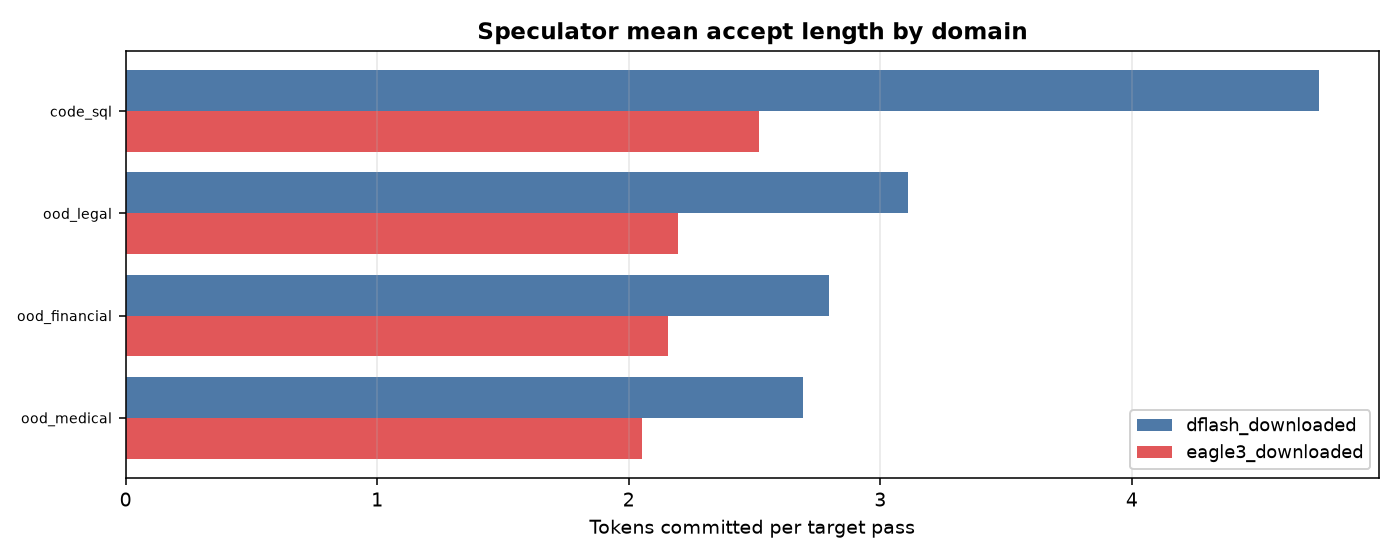
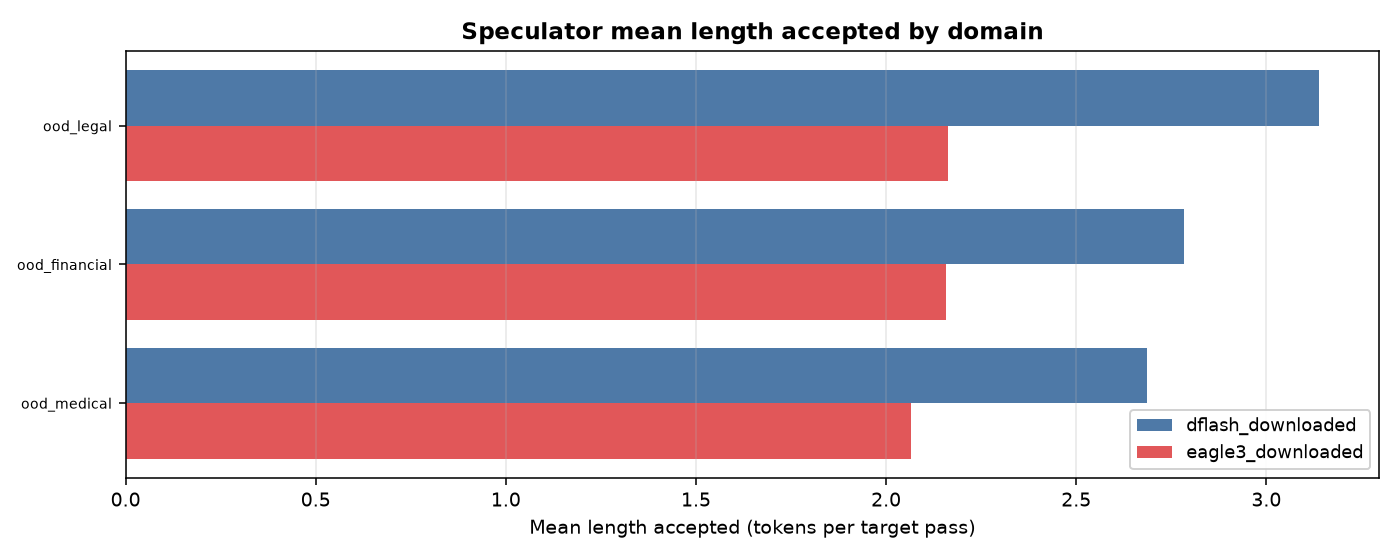
Final results: DFlash vs EAGLE3 across all 3 sources, both metrics
Complete per-domain benchmark (test split) for both speculators on the shared
Qwen3-8B target, across synthetic / wild / downloaded. results/charts/ consolidated
to the 8 final charts only: compare_<source>_{acceptance,mean_len} + overview_*.

Means (acceptance rate / mean length accepted):
  synthetic   dflash 14.8% / 3.21   eagle3 35.6% / 2.07
  wild        dflash 14.1% / 3.11   eagle3 31.5% / 1.94
  downloaded  dflash 12.5% / 2.87   eagle3 37.6% / 2.13

EAGLE3 accepts a much higher fraction of its proposals; DFlash accepts more tokens
per target pass (15-token block vs 3). Consistent across sources — and DFlash's
acceptance barely moves synthetic->real (14.8/14.1/12.5), so the synthetic prompts
aren't inflating the numbers.

Claude-Session: https://claude.ai/code/session_01Vzi1XSvwaovSQWXF5jn84U

diff --git a/Benchmarking domains/results/eagle3_synthetic_report.md b/Benchmarking domains/results/eagle3_synthetic_report.md
@@ -1,0 +1,62 @@
+# Speculator domain benchmark — eagle3
+
+Speculator `RedHatAI/Qwen3-8B-speculator.eagle3` + target `Qwen/Qwen3-8B` · 51 domains · 3 speculative tokens/step.
+
+- **Acceptance rate (pooled):** 29.9%
+- **Mean accept length:** 2.07 tokens/pass
+
+## Domains ranked by acceptance rate
+
+| Domain | Accept % | Mean len | Gen tok | n |
+|---|---|---|---|---|
+| task_json_extraction | 63.3 | 2.90 | 7674 | 100 |
+| task_data_generation | 61.1 | 2.83 | 49990 | 100 |
+| ood_ascii_art | 59.2 | 2.78 | 38102 | 100 |
+| task_tabular_data | 56.2 | 2.69 | 34051 | 100 |
+| lang_swahili | 56.1 | 2.68 | 50140 | 100 |
+| task_math_reasoning | 50.6 | 2.52 | 35117 | 100 |
+| code_python | 47.6 | 2.43 | 45684 | 100 |
+| code_javascript | 47.4 | 2.42 | 46241 | 100 |
+| code_typescript | 47.2 | 2.42 | 47737 | 100 |
+| task_email_writing | 47.0 | 2.41 | 24424 | 100 |
+| code_ruby | 46.6 | 2.40 | 43905 | 100 |
+| code_c | 46.2 | 2.39 | 49923 | 100 |
+| code_cpp | 45.8 | 2.37 | 47683 | 100 |
+| code_r | 45.6 | 2.37 | 46871 | 100 |
+| code_java | 45.4 | 2.36 | 47158 | 100 |
+| code_swift | 45.4 | 2.36 | 46182 | 100 |
+| ood_regex | 44.8 | 2.34 | 46498 | 100 |
+| code_kotlin | 44.7 | 2.34 | 47999 | 100 |
+| code_bash | 44.3 | 2.33 | 46268 | 100 |
+| ood_shell | 44.2 | 2.32 | 39367 | 100 |
+| code_rust | 44.1 | 2.32 | 47832 | 100 |
+| code_go | 43.9 | 2.32 | 48265 | 100 |
+| ood_customer_support | 43.4 | 2.30 | 40438 | 100 |
+| code_sql | 43.4 | 2.30 | 46707 | 100 |
+| ood_financial | 42.4 | 2.27 | 48866 | 100 |
+| task_logic_reasoning | 42.2 | 2.27 | 46960 | 100 |
+| ood_chemistry | 41.6 | 2.25 | 45132 | 100 |
+| lang_english | 41.6 | 2.25 | 46691 | 100 |
+| code_haskell | 41.2 | 2.24 | 47180 | 100 |
+| task_summarization | 39.3 | 2.18 | 15823 | 100 |
+| task_question_answering | 39.0 | 2.17 | 42453 | 100 |
+| ood_legal | 39.0 | 2.17 | 48326 | 100 |
+| task_roleplay_chat | 36.9 | 2.11 | 39806 | 100 |
+| ood_medical | 35.9 | 2.08 | 49595 | 100 |
+| task_creative_writing | 34.4 | 2.03 | 29517 | 100 |
+| ood_poetry | 34.2 | 2.03 | 21737 | 100 |
+| task_translation | 22.3 | 1.67 | 11672 | 100 |
+| lang_french | 19.5 | 1.59 | 47216 | 100 |
+| lang_spanish | 19.4 | 1.58 | 46032 | 100 |
+| lang_italian | 15.9 | 1.48 | 49128 | 100 |
+| lang_portuguese | 15.8 | 1.47 | 47432 | 100 |
+| lang_german | 14.0 | 1.42 | 48009 | 100 |
+| lang_turkish | 12.6 | 1.38 | 48611 | 100 |
+| lang_polish | 10.9 | 1.33 | 49267 | 100 |
+| lang_hindi | 10.9 | 1.33 | 51104 | 100 |
+| lang_korean | 9.2 | 1.28 | 48919 | 100 |
+| lang_vietnamese | 9.2 | 1.27 | 48791 | 100 |
+| lang_chinese | 8.3 | 1.25 | 46104 | 100 |
+| lang_russian | 6.3 | 1.19 | 47697 | 100 |
+| lang_japanese | 6.0 | 1.18 | 49461 | 100 |
+| lang_arabic | 5.2 | 1.16 | 48903 | 100 |

diff --git a/Benchmarking domains/results/dflash_synthetic_report.md b/Benchmarking domains/results/dflash_synthetic_report.md
@@ -1,0 +1,62 @@
+# Speculator domain benchmark — dflash
+
+Speculator `z-lab/Qwen3-8B-DFlash-b16` + target `Qwen/Qwen3-8B` · 51 domains · 15 speculative tokens/step.
+
+- **Acceptance rate (pooled):** 11.7%
+- **Mean accept length:** 3.21 tokens/pass
+
+## Domains ranked by acceptance rate
+
+| Domain | Accept % | Mean len | Gen tok | n |
+|---|---|---|---|---|
+| task_math_reasoning | 38.5 | 6.77 | 35390 | 100 |
+| task_tabular_data | 36.2 | 6.43 | 34124 | 100 |
+| task_json_extraction | 34.1 | 6.12 | 7695 | 100 |
+| task_data_generation | 28.0 | 5.19 | 49974 | 100 |
+| ood_chemistry | 25.9 | 4.88 | 45326 | 100 |
+| ood_ascii_art | 24.1 | 4.62 | 38287 | 100 |
+| code_python | 21.0 | 4.15 | 45646 | 100 |
+| code_javascript | 20.5 | 4.08 | 46394 | 100 |
+| task_logic_reasoning | 20.0 | 4.00 | 47069 | 100 |
+| code_java | 19.5 | 3.93 | 47027 | 100 |
+| ood_regex | 19.4 | 3.91 | 46626 | 100 |
+| code_cpp | 19.2 | 3.88 | 47620 | 100 |
+| code_ruby | 19.1 | 3.86 | 43801 | 100 |
+| lang_swahili | 19.0 | 3.85 | 50151 | 100 |
+| code_c | 18.9 | 3.83 | 49875 | 100 |
+| code_sql | 18.7 | 3.80 | 46630 | 100 |
+| code_r | 18.4 | 3.76 | 47163 | 100 |
+| code_go | 18.2 | 3.74 | 47964 | 100 |
+| code_typescript | 18.1 | 3.71 | 47800 | 100 |
+| code_rust | 18.0 | 3.69 | 47564 | 100 |
+| code_swift | 17.5 | 3.63 | 45651 | 100 |
+| code_bash | 17.5 | 3.62 | 46525 | 100 |
+| code_kotlin | 17.4 | 3.61 | 47701 | 100 |
+| ood_shell | 15.6 | 3.35 | 39160 | 100 |
+| ood_financial | 15.1 | 3.27 | 48877 | 100 |
+| code_haskell | 15.0 | 3.25 | 47433 | 100 |
+| ood_medical | 13.6 | 3.04 | 49600 | 100 |
+| task_email_writing | 12.0 | 2.80 | 24299 | 100 |
+| ood_legal | 11.9 | 2.78 | 48278 | 100 |
+| ood_customer_support | 11.6 | 2.73 | 39853 | 100 |
+| lang_english | 11.4 | 2.71 | 46737 | 100 |
+| task_question_answering | 11.2 | 2.68 | 42430 | 100 |
+| lang_french | 10.1 | 2.51 | 47244 | 100 |
+| task_summarization | 9.9 | 2.48 | 15906 | 100 |
+| task_translation | 9.5 | 2.43 | 11490 | 100 |
+| lang_spanish | 9.1 | 2.37 | 45952 | 100 |
+| task_roleplay_chat | 8.7 | 2.30 | 39109 | 100 |
+| lang_italian | 8.4 | 2.26 | 49174 | 100 |
+| ood_poetry | 7.5 | 2.12 | 22027 | 100 |
+| task_creative_writing | 7.4 | 2.10 | 29580 | 100 |
+| lang_german | 7.0 | 2.05 | 47945 | 100 |
+| lang_portuguese | 6.3 | 1.94 | 47732 | 100 |
+| lang_hindi | 6.1 | 1.91 | 51116 | 100 |
+| lang_chinese | 5.9 | 1.89 | 46390 | 100 |
+| lang_russian | 5.8 | 1.88 | 47766 | 100 |
+| lang_japanese | 5.3 | 1.80 | 49624 | 100 |
+| lang_arabic | 5.1 | 1.76 | 48749 | 100 |
+| lang_vietnamese | 4.6 | 1.69 | 48615 | 100 |
+| lang_korean | 4.0 | 1.60 | 48884 | 100 |
+| lang_turkish | 3.8 | 1.58 | 48375 | 100 |
+| lang_polish | 3.5 | 1.53 | 49142 | 100 |

diff --git a/Benchmarking domains/results/eagle3_downloaded_report.md b/Benchmarking domains/results/eagle3_downloaded_report.md
@@ -1,15 +1,14 @@
 # Speculator domain benchmark — eagle3
 
-Speculator `RedHatAI/Qwen3-8B-speculator.eagle3` + target `Qwen/Qwen3-8B` · 4 domains · 3 speculative tokens/step.
+Speculator `RedHatAI/Qwen3-8B-speculator.eagle3` + target `Qwen/Qwen3-8B` · 3 domains · 3 speculative tokens/step.
 
-- **Acceptance rate (pooled):** 38.9%
-- **Mean accept length:** 2.23 tokens/pass
+- **Acceptance rate (pooled):** 37.2%
+- **Mean accept length:** 2.13 tokens/pass
 
 ## Domains ranked by acceptance rate
 
 | Domain | Accept % | Mean len | Gen tok | n |
 |---|---|---|---|---|
-| code_sql | 50.6 | 2.52 | 21170 | 100 |
-| ood_legal | 39.9 | 2.20 | 13031 | 30 |
-| ood_financial | 38.5 | 2.15 | 50455 | 100 |
-| ood_medical | 35.2 | 2.05 | 51164 | 100 |
+| ood_legal | 38.7 | 2.16 | 12780 | 30 |
+| ood_financial | 38.5 | 2.16 | 50465 | 100 |
+| ood_medical | 35.5 | 2.07 | 51183 | 100 |

diff --git a/Benchmarking domains/results/dflash_downloaded_report.md b/Benchmarking domains/results/dflash_downloaded_report.md
@@ -1,15 +1,14 @@
 # Speculator domain benchmark — dflash
 
-Speculator `z-lab/Qwen3-8B-DFlash-b16` + target `Qwen/Qwen3-8B` · 4 domains · 15 speculative tokens/step.
+Speculator `z-lab/Qwen3-8B-DFlash-b16` + target `Qwen/Qwen3-8B` · 3 domains · 15 speculative tokens/step.
 
-- **Acceptance rate (pooled):** 13.1%
-- **Mean accept length:** 3.34 tokens/pass
+- **Acceptance rate (pooled):** 11.8%
+- **Mean accept length:** 2.87 tokens/pass
 
 ## Domains ranked by acceptance rate
 
 | Domain | Accept % | Mean len | Gen tok | n |
 |---|---|---|---|---|
-| code_sql | 25.0 | 4.75 | 21229 | 100 |
-| ood_legal | 14.1 | 3.11 | 12997 | 30 |
-| ood_financial | 12.0 | 2.79 | 50730 | 100 |
-| ood_medical | 11.3 | 2.69 | 51151 | 100 |
+| ood_legal | 14.3 | 3.14 | 12862 | 30 |
+| ood_financial | 11.9 | 2.78 | 50500 | 100 |
+| ood_medical | 11.2 | 2.69 | 50929 | 100 |
